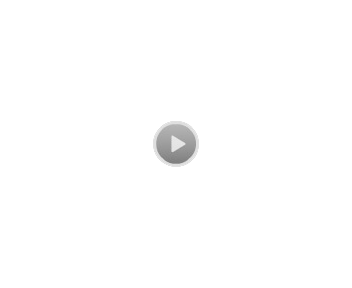
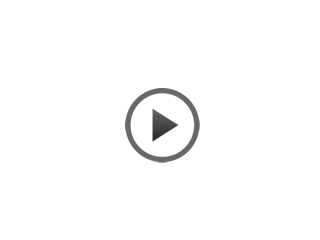
async load of video preview frame new play button image

Changed region(s): [[0.375, 0.35, 0.625, 0.7]]

diff --git a/iPhoneClient/NodeViewController.m b/iPhoneClient/NodeViewController.m
@@ -41,6 +41,7 @@ NSString *const kPlaqueDescriptionHtmlTemplate =
 @implementation NodeViewController
 @synthesize node, tableView, isLink, hasMedia,webViewSpinner, mediaImageView, cellArray;
 
+
 // The designated initializer. Override to perform setup that is required before the view is loaded.
 - (id)initWithNibName:(NSString *)nibNameOrNil bundle:(NSBundle *)nibBundleOrNil {
     if ((self = [super initWithNibName:nibNameOrNil bundle:nibBundleOrNil])) {
@@ -56,7 +57,6 @@ NSString *const kPlaqueDescriptionHtmlTemplate =
         self.isLink=NO;
         self.mediaImageView = [[AsyncImageView alloc]init];
         self.mediaImageView.delegate = self;
-        self.webViewSpinner = [[UIActivityIndicatorView alloc]initWithActivityIndicatorStyle:UIActivityIndicatorViewStyleWhite];
     }
     
     return self;
@@ -81,7 +81,7 @@ NSString *const kPlaqueDescriptionHtmlTemplate =
     else hasMedia = NO;
     
     //Create Image/AV Cell
-    UITableViewCell *imageCell = [[UITableViewCell alloc] initWithStyle:UITableViewCellStyleDefault reuseIdentifier:@"mediaCell"];
+    UITableViewCell *mediaCell = [[UITableViewCell alloc] initWithStyle:UITableViewCellStyleDefault reuseIdentifier:@"mediaCell"];
     
     if ([media.type isEqualToString: @"Image"] && media.url) {
         NSLog(@"NodeVC: cellForRowAtIndexPath: This is an Image Plaque");
@@ -93,51 +93,41 @@ NSString *const kPlaqueDescriptionHtmlTemplate =
         }
         
         //Setup the cell as an image
-        imageCell.backgroundView = mediaImageView;
-        imageCell.backgroundView.layer.masksToBounds = YES;
-        imageCell.backgroundView.layer.cornerRadius = 5.0;
-        imageCell.userInteractionEnabled = NO;
+        mediaCell.backgroundView = mediaImageView;
+        mediaCell.backgroundView.layer.masksToBounds = YES;
+        mediaCell.backgroundView.layer.cornerRadius = 5.0;
+        mediaCell.userInteractionEnabled = NO;
         
         //By forcing these sizes now, the asyncimageview spinner displays in the correct location
-        imageCell.frame = CGRectMake(0, 0, 320, 200);
-        self.mediaImageView.frame = CGRectMake(0, 0, 320, 200);
+        mediaCell.frame = CGRectMake(0, 0, 300, 200);
+        self.mediaImageView.frame = CGRectMake(0, 0, 300, 200);
 
     }
     else if(([media.type isEqualToString: @"Video"] || [media.type isEqualToString: @"Audio"]) && media.url)
     {
         NSLog(@"NodeVC: This is an A/V Plaque");
-        //Setup the Button
-        mediaPlaybackButton = [[UIButton alloc] initWithFrame:CGRectMake(0, 0, 320, 240)];
-        [mediaPlaybackButton addTarget:self action:@selector(playMovie:) forControlEvents:UIControlEventTouchUpInside];
-        
                 
         //Create movie player object
         mMoviePlayer = [[ARISMoviePlayerViewController alloc] initWithContentURL:[NSURL URLWithString:media.url]];
         [mMoviePlayer shouldAutorotateToInterfaceOrientation:YES];
         mMoviePlayer.moviePlayer.shouldAutoplay = NO;
         [mMoviePlayer.moviePlayer prepareToPlay];
+                
+        //Setup the Button
+        mediaPlaybackButton = [[UIButton alloc] initWithFrame:CGRectMake(0, 0, 300, 240)];
+        [mediaPlaybackButton addTarget:self action:@selector(playMovie:) forControlEvents:UIControlEventTouchUpInside];
+        mediaPlaybackButton.backgroundColor = [UIColor blackColor];
         
-        //Syncronously Create a thumbnail for the button
-        UIImage *videoThumb = [mMoviePlayer.moviePlayer thumbnailImageAtTime:(NSTimeInterval)1.0 timeOption:MPMovieTimeOptionExact];
-        
-        NSLog(@"ItemDetailsVC: videoThumb frame size is : %f, %f", videoThumb.size.width, videoThumb.size.height);
-        UIImage *videoThumbSized = [videoThumb scaleToSize:CGSizeMake(320, 240)];        
-        [mediaPlaybackButton setBackgroundImage:videoThumbSized forState:UIControlStateNormal];
-        
-        
+        //Add the overlay
         UIImageView *playButonOverlay = [[UIImageView alloc]initWithImage:[UIImage imageNamed:@"play_button.png"]];
         playButonOverlay.center = mediaPlaybackButton.center;
+        playButonOverlay.contentMode = UIViewContentModeScaleToFill;
         [mediaPlaybackButton addSubview:playButonOverlay]; 
-         
         
         //Setup the cell as the video preview button
-        imageCell.backgroundView = mediaPlaybackButton;
-        imageCell.backgroundView.layer.masksToBounds = YES;
-        imageCell.backgroundView.layer.cornerRadius = 10.0;
-        imageCell.userInteractionEnabled = YES;
-        imageCell.selectionStyle = UITableViewCellSelectionStyleNone;
-        imageCell.frame = mediaPlaybackButton.frame;
-        
+        mediaCell.selectionStyle = UITableViewCellSelectionStyleNone;
+        mediaCell.frame = mediaPlaybackButton.frame;
+        mediaCell.backgroundView = mediaPlaybackButton;
 
     }
     
@@ -157,10 +147,11 @@ NSString *const kPlaqueDescriptionHtmlTemplate =
     webCell.backgroundView = webView;
     webCell.backgroundColor = [UIColor clearColor];
     
-    webViewSpinner.center = webCell.center;
-    [webViewSpinner startAnimating];
-    webViewSpinner.backgroundColor = [UIColor clearColor];
-    [webCell addSubview:webViewSpinner];
+    self.webViewSpinner = [[UIActivityIndicatorView alloc]initWithActivityIndicatorStyle:UIActivityIndicatorViewStyleWhite];
+    self.webViewSpinner.center = webCell.center;
+    [self.webViewSpinner startAnimating];
+    self.webViewSpinner.backgroundColor = [UIColor clearColor];
+    [webCell addSubview:self.webViewSpinner];
 
     //Create continue button cell
     UITableViewCell *buttonCell = [[UITableViewCell alloc] initWithStyle:UITableViewCellStyleDefault reuseIdentifier:@"continueButtonCell"];
@@ -168,7 +159,7 @@ NSString *const kPlaqueDescriptionHtmlTemplate =
     buttonCell.textLabel.textAlignment = UITextAlignmentCenter;
     
     //Setup the cellArray
-    if(hasMedia) self.cellArray = [[NSArray alloc] initWithObjects:imageCell,webCell,buttonCell, nil];
+    if(hasMedia) self.cellArray = [[NSArray alloc] initWithObjects:mediaCell,webCell,buttonCell, nil];
     else self.cellArray = [[NSArray alloc] initWithObjects:webCell,buttonCell, nil];
     
 }
@@ -221,7 +212,7 @@ navigationType:(UIWebViewNavigationType)navigationType{
     
     if(self.mediaImageView.image.size.width > 0){
         [self.mediaImageView setContentScaleFactor:(float)(320/self.mediaImageView.image.size.width)];
-        self.mediaImageView.frame = CGRectMake(0, 0, 320, self.mediaImageView.contentScaleFactor*self.mediaImageView.image.size.height);
+        self.mediaImageView.frame = CGRectMake(0, 0, 300, self.mediaImageView.contentScaleFactor*self.mediaImageView.image.size.height);
         NSLog(@"NodeVC: Image resized to: %f, %f",self.mediaImageView.frame.size.width,self.mediaImageView.frame.size.height);
         [(UITableViewCell *)[self.cellArray objectAtIndex:0] setFrame:mediaImageView.frame];
     }
@@ -290,6 +281,14 @@ navigationType:(UIWebViewNavigationType)navigationType{
 	}
 	if( state & MPMovieLoadStatePlayable ) {
 		NSLog(@"NodeViewController: Playable Load State");
+        
+        //Create a thumbnail for the button
+        UIImage *videoThumb = [mMoviePlayer.moviePlayer thumbnailImageAtTime:(NSTimeInterval)1.0 timeOption:MPMovieTimeOptionExact];
+        
+        NSLog(@"ItemDetailsVC: videoThumb frame size is : %f, %f", videoThumb.size.width, videoThumb.size.height);
+        UIImage *videoThumbSized = [videoThumb scaleToSize:CGSizeMake(300, 240)];        
+        [mediaPlaybackButton setBackgroundImage:videoThumbSized forState:UIControlStateNormal];
+        
 	} 
 	if( state & MPMovieLoadStatePlaythroughOK ) {
 		NSLog(@"NodeViewController: Playthrough OK Load State");
